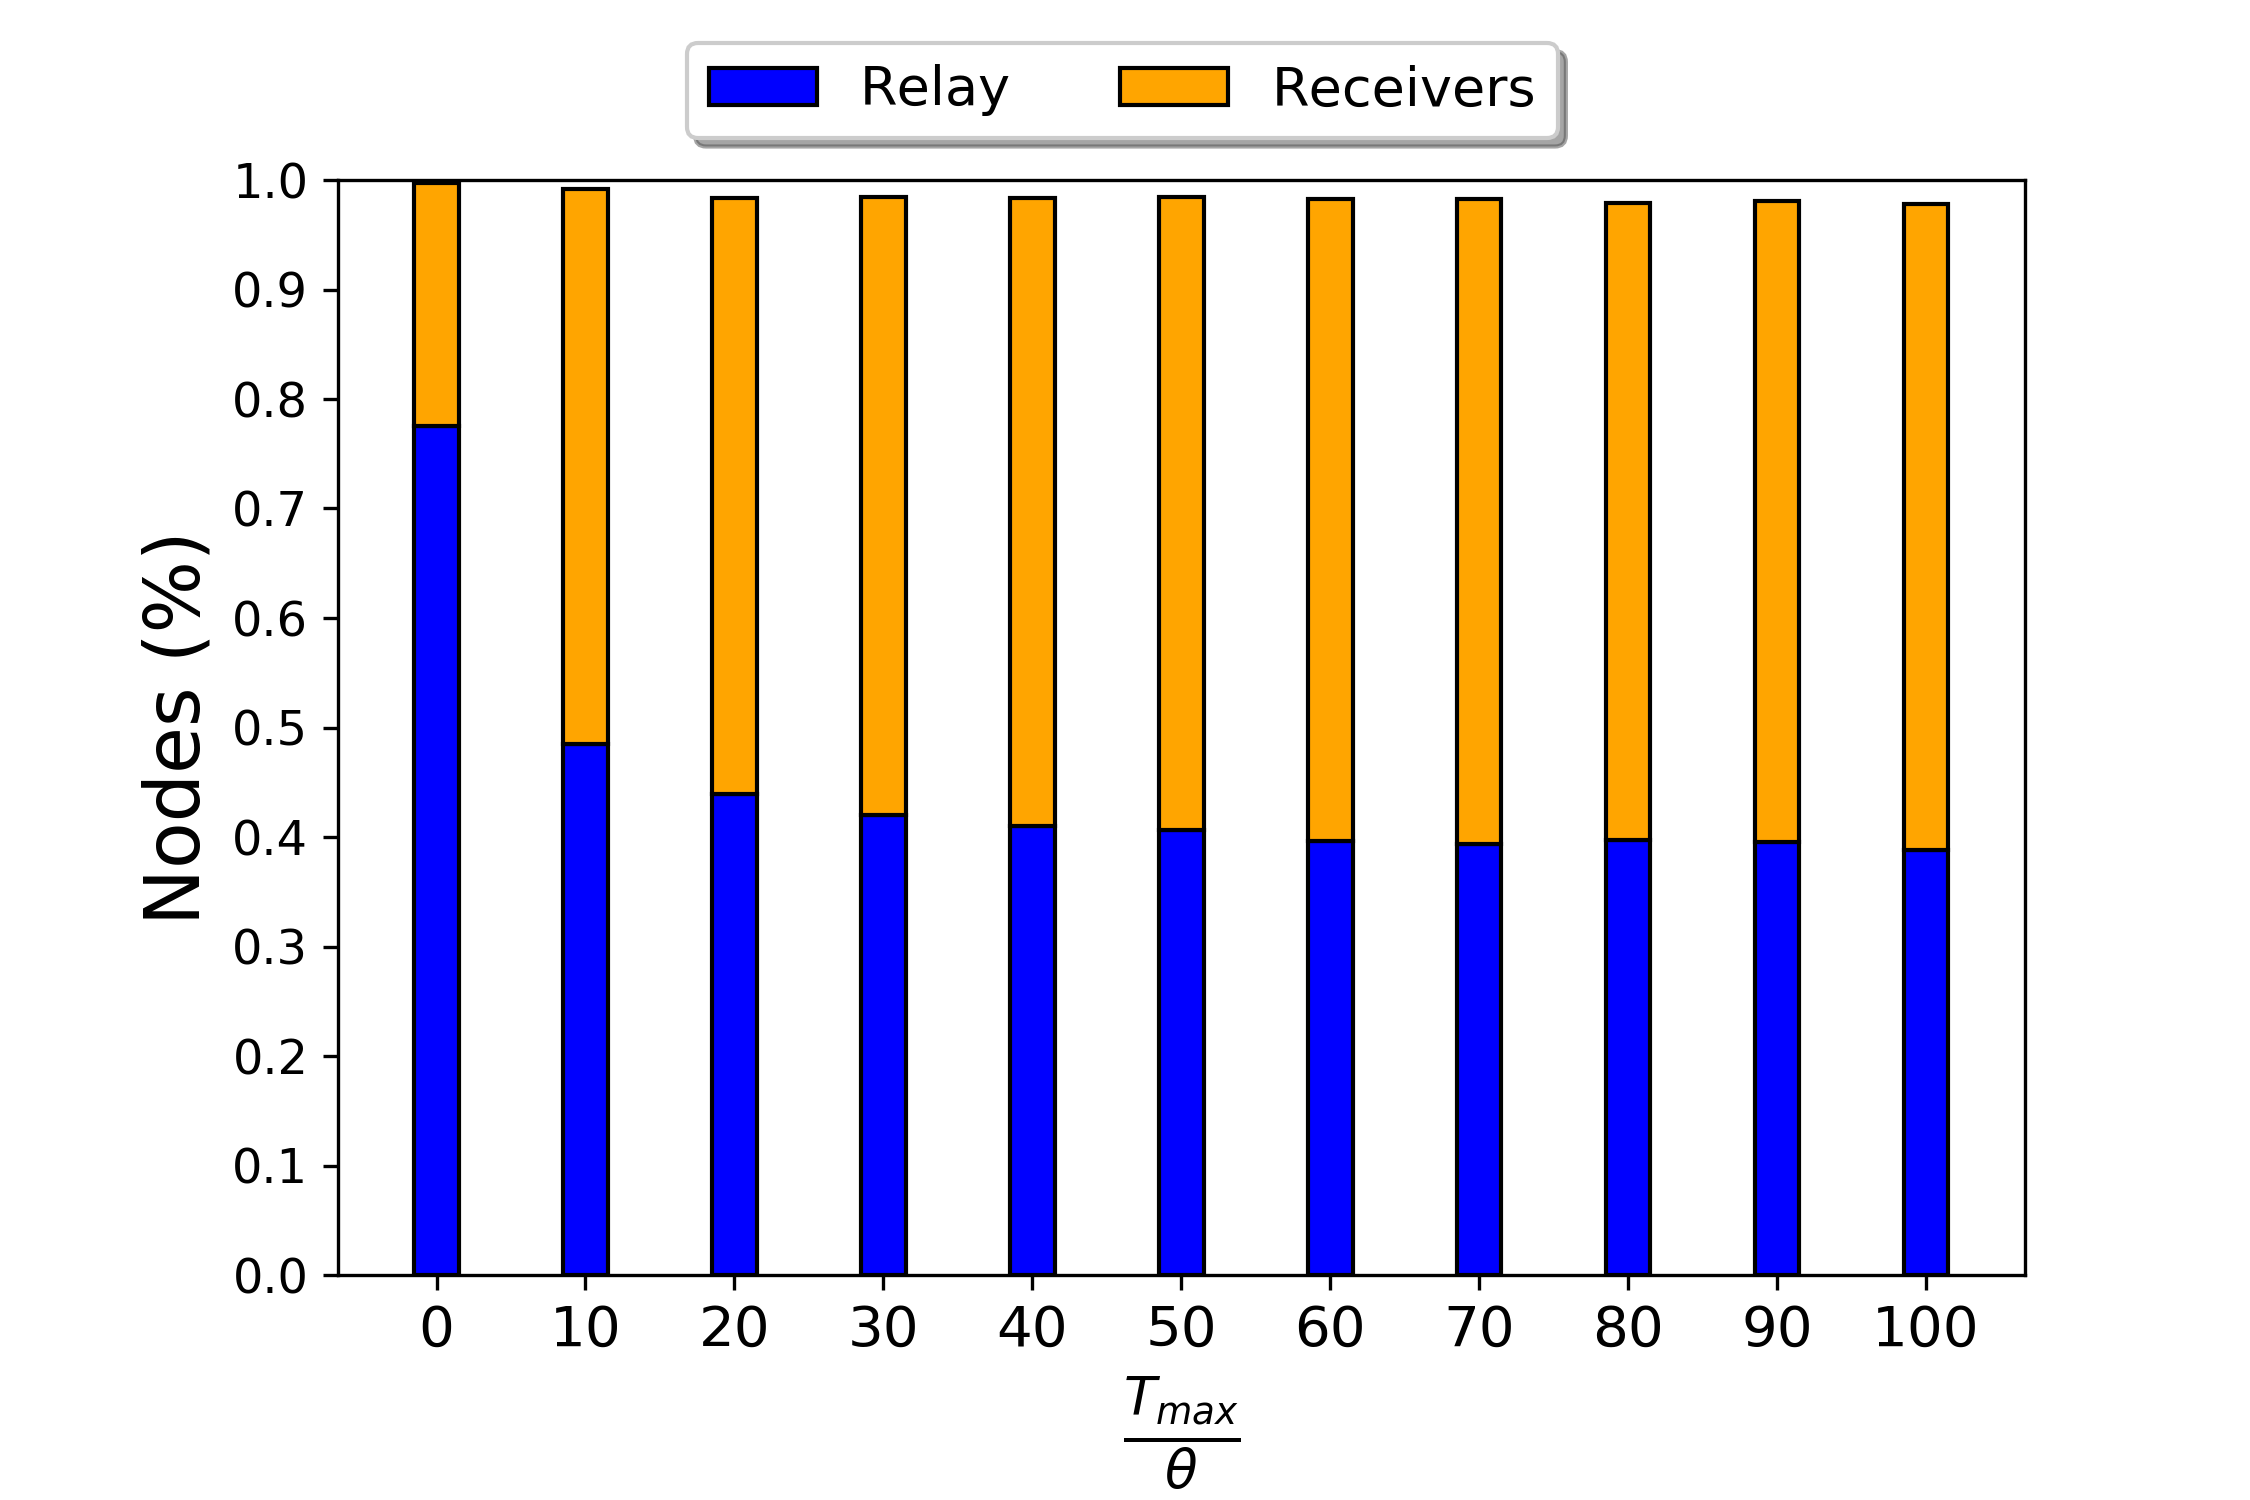
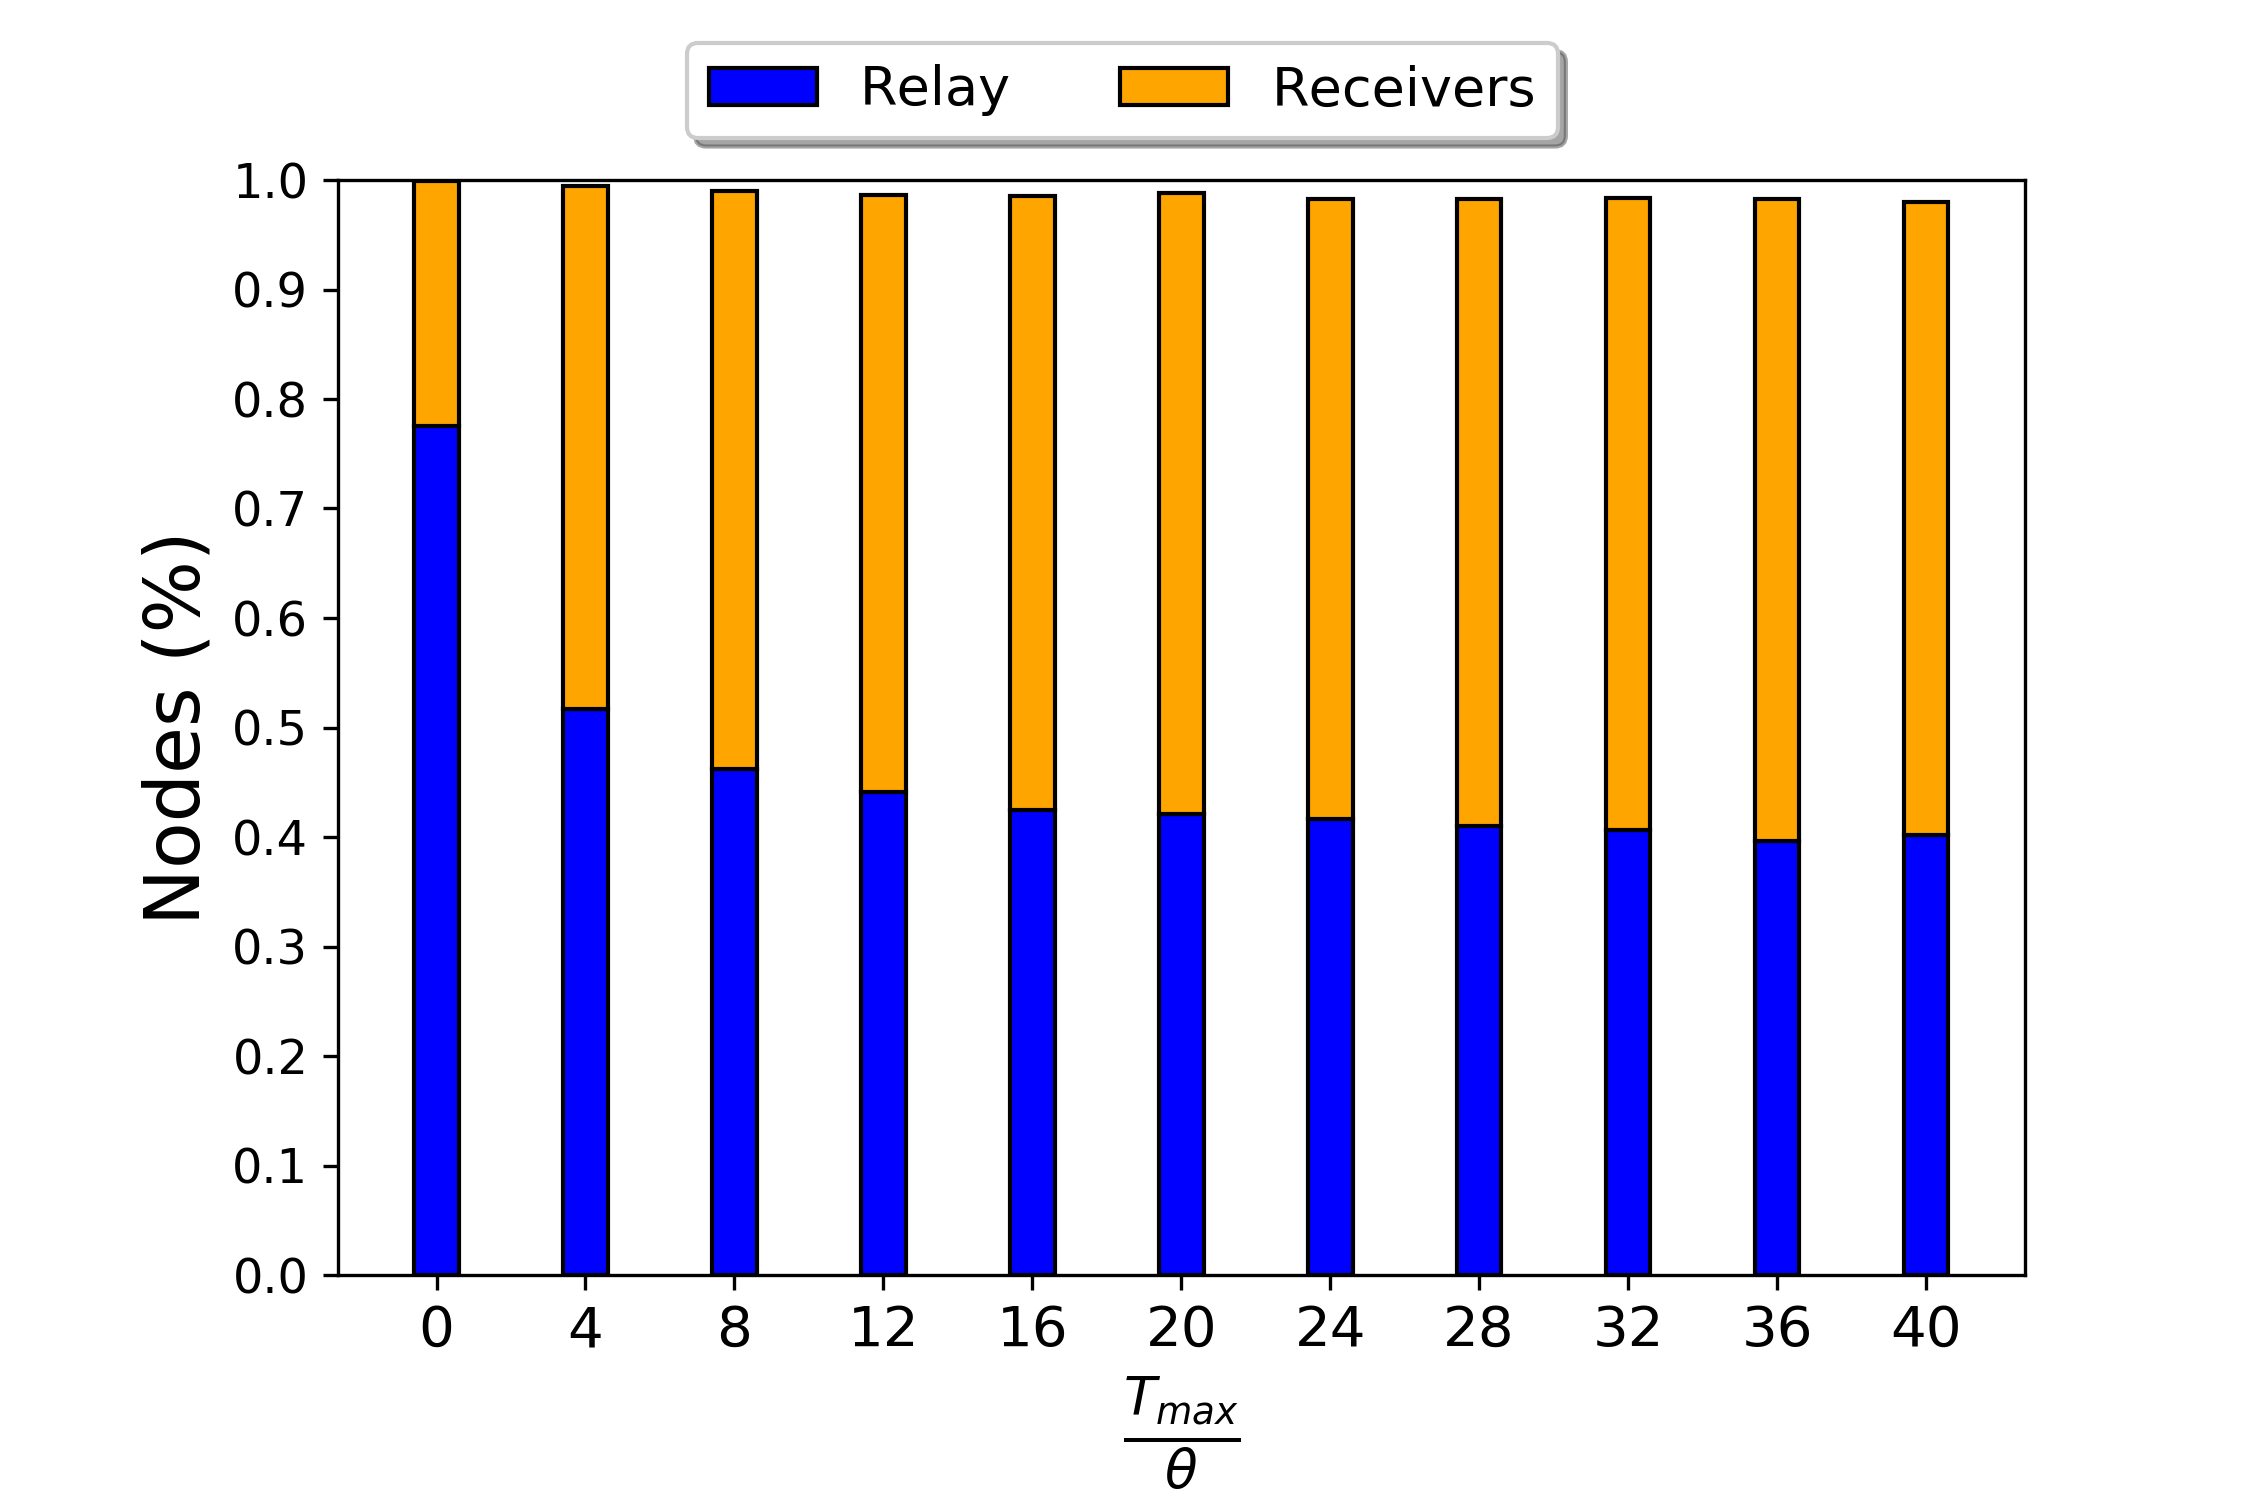
improve Tmax comparison

diff --git a/grafici/invited/Tmax-comparison.py b/grafici/invited/Tmax-comparison.py
@@ -5,136 +5,150 @@ import matplotlib.pyplot as plt
 
 import sys
 sys.path.append("src")
-from sim_config import config
+import sim_config
 from simulator import performSimulations, computeMetrics
 
-THETA = 0.0015  #mean of the underlying channel tx delay (s) 
-
-if config.city_name == "NewYork":
-    tmax_vals = np.linspace(0, 100, 11) * THETA
-elif config.city_name == "Luxembourg":
-    tmax_vals = np.linspace(0, 100, 11) * THETA
-elif config.city_name == "Cologne":
-    tmax_vals = np.linspace(0, 100, 11) * THETA
-else:
-    raise Exception(f"city {config.city_name} NA")
+THETA = 0.0025  #mean of the underlying channel tx delay (s) 
+tmax_vals = np.linspace(0, 40, 11) * THETA
 
 t_last_infctd_vals = np.zeros_like(tmax_vals)
 ratios_infected_vals = np.zeros_like(tmax_vals)
 sent_msgs_vals = np.zeros_like(tmax_vals)
 
 
-for i, tmax in enumerate(tmax_vals):
-    config.Tmax = tmax
-    
-    sims = performSimulations(config.nsimulations)
-    res = computeMetrics(sims)
-    n_cars, sent_msgs, recv_msgs, t_last_infect, cars_infected_ratio, network_traffic = res
+city_scenario = {
+    "Luxembourg": [
+        "time27100Tper1000.txt",
+        "time27100Tper50.txt"
+    ],
+    "Cologne": [
+        "time23000Tper1000.txt",
+        "time23000Tper50.txt"
+    ],
+    "NewYork": [
+        "Newyork7005.mat",
+        "Newyork3005.mat"
+    ]
+} 
 
-    t_last_infctd_vals[i] = t_last_infect
-    ratios_infected_vals[i] = cars_infected_ratio
-    sent_msgs_vals[i] = sent_msgs
+for city, scenarios in city_scenario.items():
+    for scenario in scenarios:
+        sim_config.config.city_name = city
+        sim_config.config.scenario = scenario
+        sim_config.load_opt_parameters()
+        print(f"Executing on {city} {scenario}")
 
-def mypprint(arr):
-    print("[", end="")
-    for v in arr:
-        print(f"{v}, ", end="")
-    print("]")
+        for i, tmax in enumerate(tmax_vals):
+            sim_config.config.Tmax = tmax
+            
+            sims = performSimulations(sim_config.config.nsimulations, verbose=False)
+            res = computeMetrics(sims, verbose=False)
+            n_cars, sent_msgs, recv_msgs, t_last_infect, cars_infected_ratio, network_traffic = res
 
-print("RATIOS")
-mypprint(ratios_infected_vals)
-print("SENT_MSGS")
-mypprint(sent_msgs_vals)
-print("TMAX VALS")
-mypprint(tmax_vals)
-print("T LAST INFCTD")
-mypprint(t_last_infctd_vals)
+            t_last_infctd_vals[i] = t_last_infect
+            ratios_infected_vals[i] = cars_infected_ratio
+            sent_msgs_vals[i] = sent_msgs
 
+        def mypprint(arr):
+            print("[", end="")
+            for v in arr:
+                print(f"{v}, ", end="")
+            print("]")
 
-def make_plot_frwd_recv(n_cars, means_recv_ratio, means_frwd, labels=None):
-    assert(len(means_recv_ratio) == len(means_frwd))
-    N = len(means_recv_ratio)
-
-    # pyplot config
-    plt.rcParams.update({'font.size': 18.3})
-    plt.rc('legend', fontsize=13)
-    plt.rc('xtick', labelsize=13.5)
-    plt.rc('ytick', labelsize=11.5)
-
-    means_frwd_ratio = np.asarray(means_frwd) / n_cars
-    means_recv_ratio = np.asarray(means_recv_ratio) - means_frwd_ratio
-
-
-    ind = np.arange(N)    # the x locations for the groups
-    width = 0.3       # the width of the bars: can also be len(x) sequence
-
-    #plt.bar(ind, means)
-
-    #fig, ax = plt.subplots()
-    fig = plt.figure()
-    ax = plt.subplot(111)
-
-    gap = 0.075
-
-    scale = 0.5
-    plt.figure(figsize=(15*scale, 10*scale))
-
-    p1 = plt.bar(ind, means_frwd_ratio, width, color='b', edgecolor='k')
-    p2 = plt.bar(ind, means_recv_ratio, width,
-                bottom=means_frwd_ratio, color='#ffa500', edgecolor='k')
+        print("RATIOS")
+        mypprint(ratios_infected_vals)
+        print("SENT_MSGS")
+        mypprint(sent_msgs_vals)
+        print("TMAX VALS")
+        mypprint(tmax_vals)
+        print("T LAST INFCTD")
+        mypprint(t_last_infctd_vals)
 
 
-    """
-    p3 = plt.bar(ind+width+gap, means_frw_low_dens, width, color='b', edgecolor='k')
-    p4 = plt.bar(ind+width+gap, means_recv_ratio_low_dens, width,
-                bottom=means_frw_low_dens, color='#cc6e00', edgecolor='k')
-    """
+        def make_plot_frwd_recv(n_cars, means_recv_ratio, means_frwd, labels=None):
+            assert(len(means_recv_ratio) == len(means_frwd))
+            N = len(means_recv_ratio)
+
+            # pyplot config
+            plt.rcParams.update({'font.size': 18.3})
+            plt.rc('legend', fontsize=13)
+            plt.rc('xtick', labelsize=13.5)
+            plt.rc('ytick', labelsize=11.5)
+
+            means_frwd_ratio = np.asarray(means_frwd) / n_cars
+            means_recv_ratio = np.asarray(means_recv_ratio) - means_frwd_ratio
 
 
-    #plt.text(2.4, 0.9,'drop_rate = 0.03',{'size':11})
+            ind = np.arange(N)    # the x locations for the groups
+            width = 0.3       # the width of the bars: can also be len(x) sequence
 
-    # Shrink current axis's height by 10% on the bottom
-    box = ax.get_position()
-    ax.set_position([box.x0, box.y0 + box.height * 0.1,
-                    box.width, box.height * 0.9])
+            #plt.bar(ind, means)
 
+            #fig, ax = plt.subplots()
+            fig = plt.figure()
+            ax = plt.subplot(111)
 
+            gap = 0.075
 
-    plt.ylabel('Nodes (%)')
-    plt.xlabel(r'$\frac{T_{max}}{\theta}$')
-    plt.title('')
-    if not labels is None:
-        plt.xticks(ind, labels) 
-    plt.yticks(np.arange(0, 1.1, 0.1))
-    plt.ylim((0.0, 1.0))
+            scale = 0.5
+            plt.figure(figsize=(15*scale, 10*scale))
 
-
-    #plt.legend((p1[0], p2[0], p4[0]), ('Relay', r'EPIC avg $\delta =43.8$', r'EPIC avg $\delta =11.6$'), 
-    #    loc='upper center', bbox_to_anchor=(0.465, 1.15), fancybox=True, shadow=True, ncol=5)
-
-    plt.legend((p1[0], p2[0]), ('Relay', 'Receivers'), 
-        loc='upper center', bbox_to_anchor=(0.465, 1.15), fancybox=True, shadow=True, ncol=5)
-
-    plt.gcf().subplots_adjust(bottom=0.15, left=0.15)
-    #plt.show()
-    city, scenario = config.city_name, config.scenario
-    plt.savefig(f'grafici/invited/imgs/tmax/{city}-{scenario}.png', dpi=300)
+            p1 = plt.bar(ind, means_frwd_ratio, width, color='b', edgecolor='k')
+            p2 = plt.bar(ind, means_recv_ratio, width,
+                        bottom=means_frwd_ratio, color='#ffa500', edgecolor='k')
 
 
-def make_plot_time(tmax_vals, t_last_infctd_vals):
-    plt.plot(tmax_vals*1000, t_last_infctd_vals)
-    plt.ylabel('Transmission time (s)')
-    plt.xlabel(r'$T_{max}$ (ms)')
-    plt.show()
+            """
+            p3 = plt.bar(ind+width+gap, means_frw_low_dens, width, color='b', edgecolor='k')
+            p4 = plt.bar(ind+width+gap, means_recv_ratio_low_dens, width,
+                        bottom=means_frw_low_dens, color='#cc6e00', edgecolor='k')
+            """
 
 
-labels = map(lambda x: f"{x/THETA:.0f}", tmax_vals)
-make_plot_frwd_recv(
-    n_cars,
-    ratios_infected_vals,
-    sent_msgs_vals,
-    labels=labels
-)
+            #plt.text(2.4, 0.9,'drop_rate = 0.03',{'size':11})
+
+            # Shrink current axis's height by 10% on the bottom
+            box = ax.get_position()
+            ax.set_position([box.x0, box.y0 + box.height * 0.1,
+                            box.width, box.height * 0.9])
+
+
+
+            plt.ylabel('Nodes (%)')
+            plt.xlabel(r'$\frac{T_{max}}{\theta}$')
+            plt.title('')
+            if not labels is None:
+                plt.xticks(ind, labels) 
+            plt.yticks(np.arange(0, 1.1, 0.1))
+            plt.ylim((0.0, 1.0))
+
+
+            #plt.legend((p1[0], p2[0], p4[0]), ('Relay', r'EPIC avg $\delta =43.8$', r'EPIC avg $\delta =11.6$'), 
+            #    loc='upper center', bbox_to_anchor=(0.465, 1.15), fancybox=True, shadow=True, ncol=5)
+
+            plt.legend((p1[0], p2[0]), ('Relay', 'Receivers'), 
+                loc='upper center', bbox_to_anchor=(0.465, 1.15), fancybox=True, shadow=True, ncol=5)
+
+            plt.gcf().subplots_adjust(bottom=0.15, left=0.15)
+            #plt.show()
+            city, scenario = sim_config.config.city_name, sim_config.config.scenario
+            plt.savefig(f'grafici/invited/imgs/tmax/{city}-{scenario}.png', dpi=300)
+
+
+        def make_plot_time(tmax_vals, t_last_infctd_vals):
+            plt.plot(tmax_vals*1000, t_last_infctd_vals)
+            plt.ylabel('Transmission time (s)')
+            plt.xlabel(r'$T_{max}$ (ms)')
+            plt.show()
+
+
+        labels = map(lambda x: f"{x/THETA:.0f}", tmax_vals)
+        make_plot_frwd_recv(
+            n_cars,
+            ratios_infected_vals,
+            sent_msgs_vals,
+            labels=labels
+        )
 
 """
 make_plot_time(
